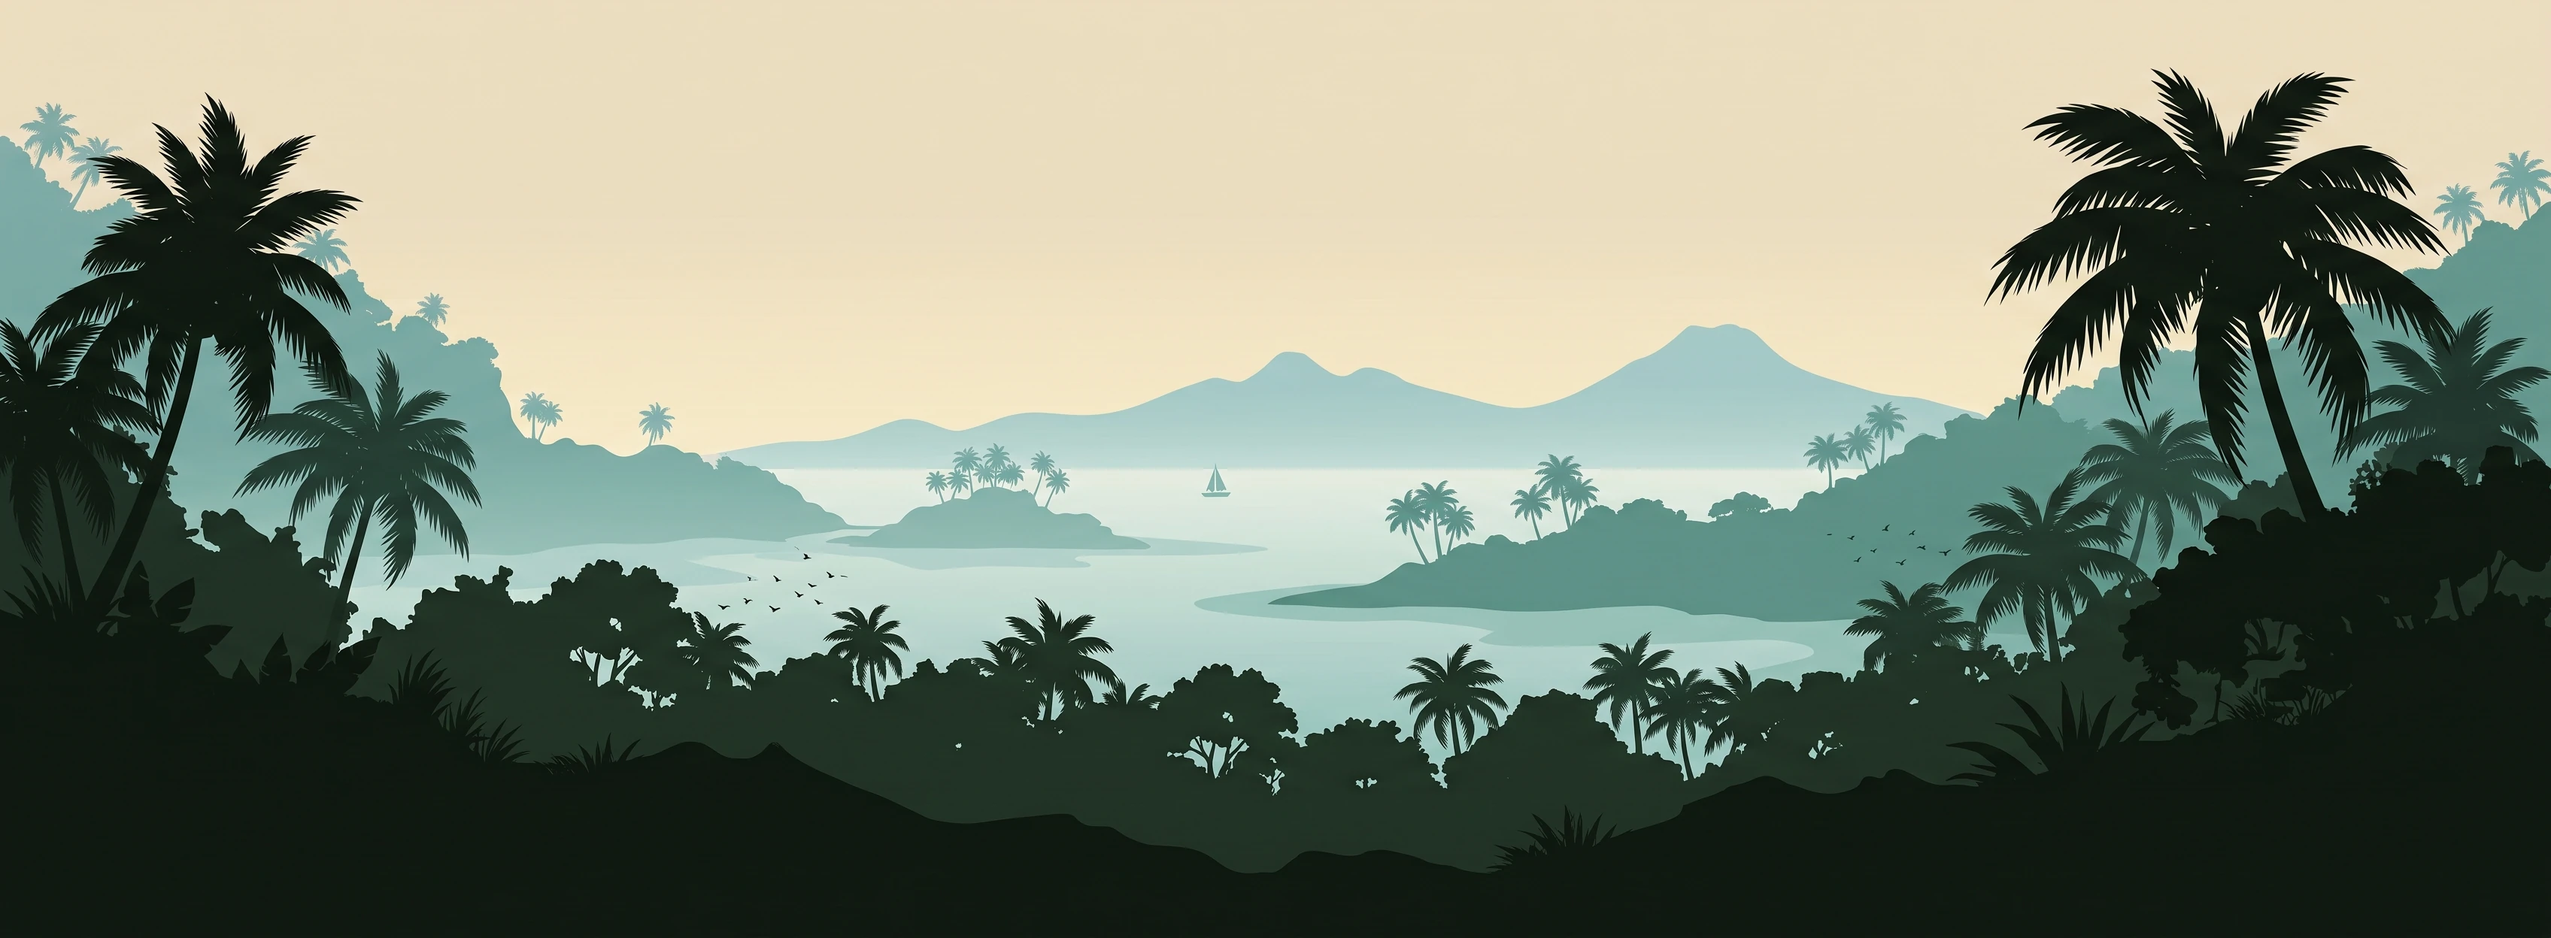
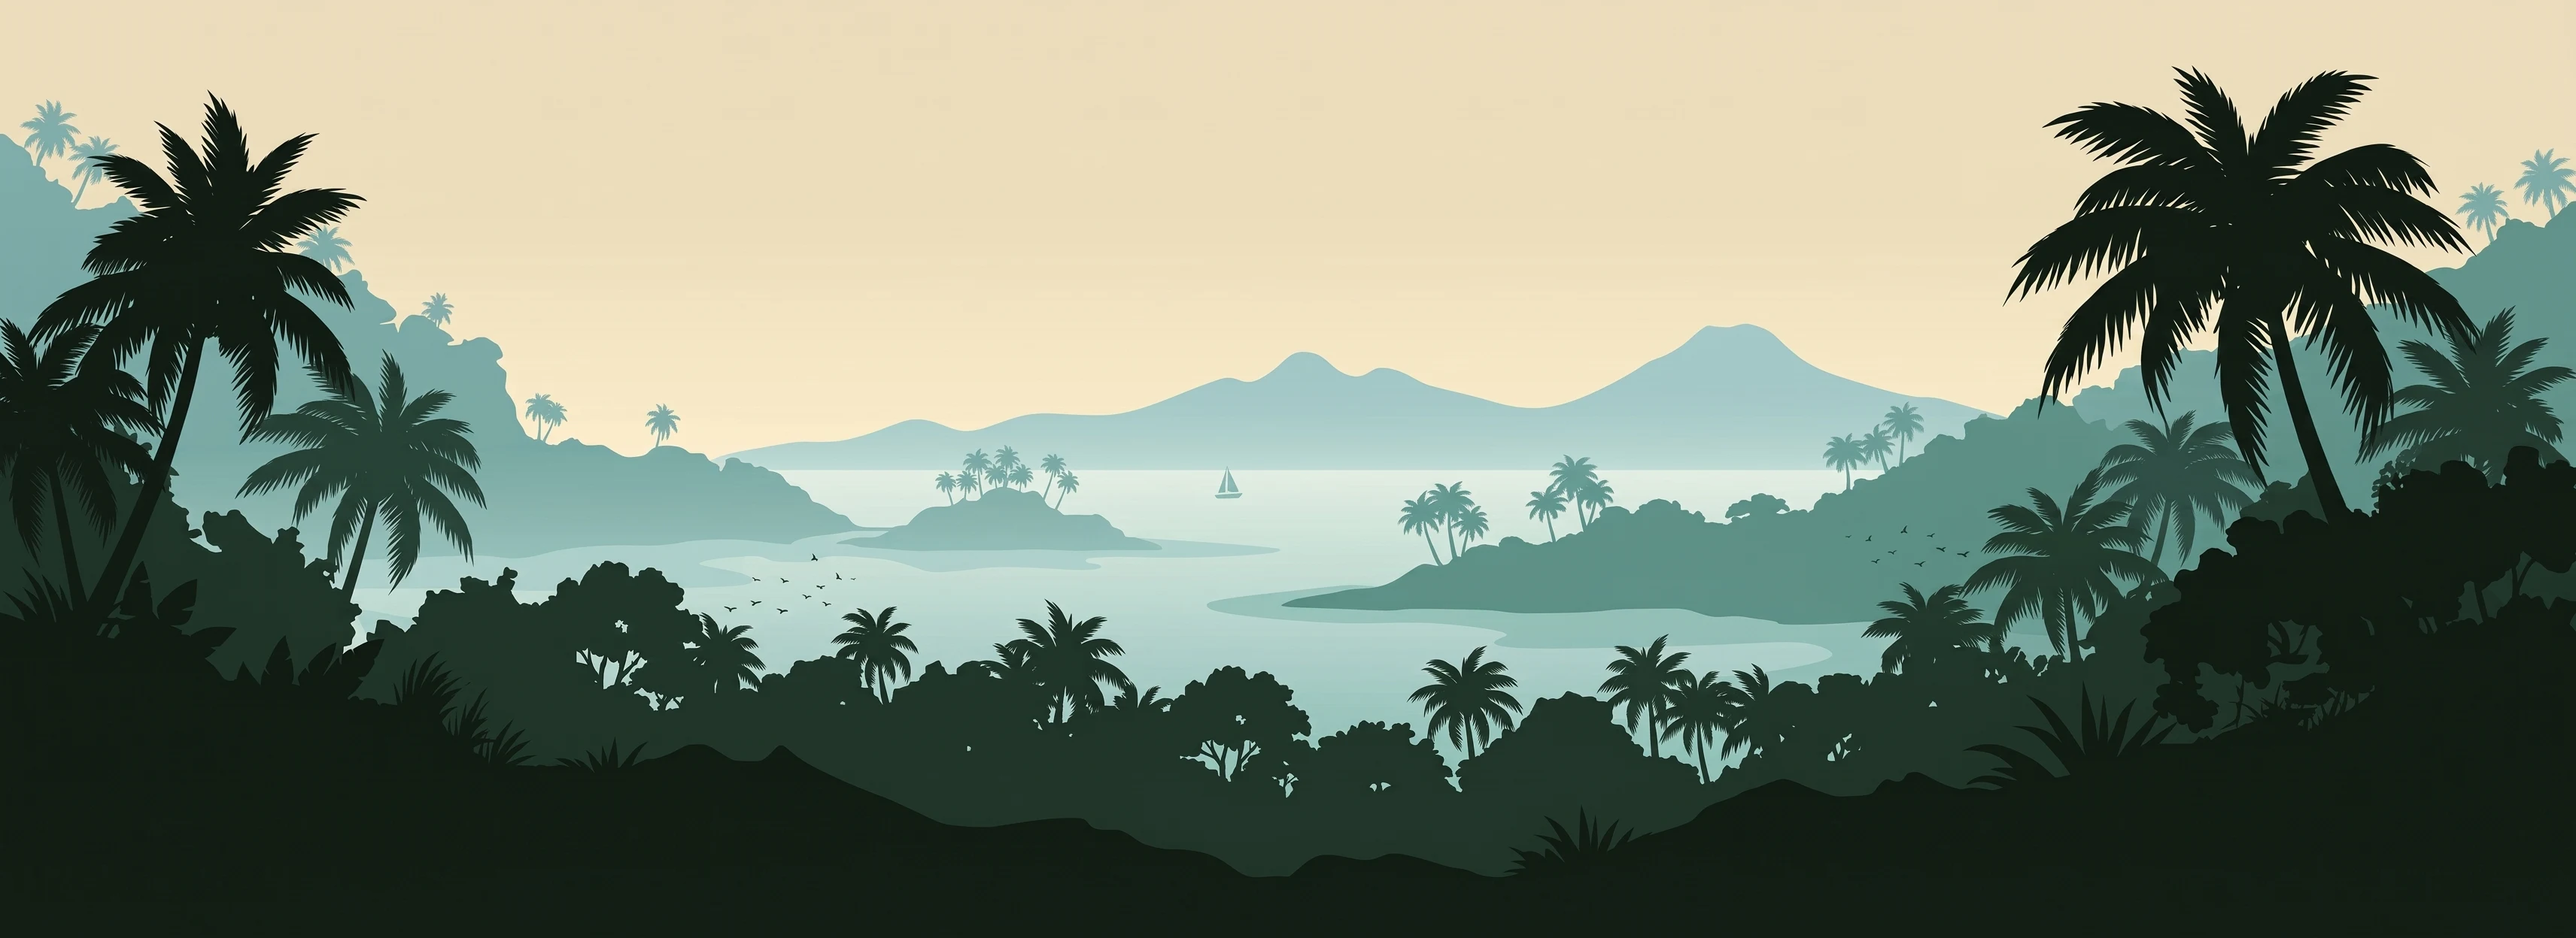
feat(ui): decrypt close bridge, sand seam, footer art refresh
Replace woodboard CTA with parchment overlay and text link; misty horizon
and sand gradient wedge (#ead7b2→#ecdcbb) into updated footer island WebP.
Remove unused hero-dirt and woodboard assets. ADR 008.

diff --git a/src/components/close/TryAgain.tsx b/src/components/close/TryAgain.tsx
@@ -1,37 +1,70 @@
-import { ArrowUp } from 'lucide-react';
+import { usePrefersReducedMotion } from '@/hooks/usePrefersReducedMotion';
 
 export default function TryAgain() {
+  const prefersReducedMotion = usePrefersReducedMotion();
+
   const scrollToWorkbench = () => {
     const el = document.getElementById('workbench');
     if (el) {
-      el.scrollIntoView({ behavior: 'smooth' });
+      el.scrollIntoView({
+        behavior: prefersReducedMotion ? 'auto' : 'smooth',
+        block: 'start',
+      });
     }
   };
 
   return (
-    <section className="relative bg-gradient-to-b from-[#EDF5F1] via-[#eaddbf] to-[#eaddbf] py-20 sm:py-28 px-4 sm:px-6 overflow-hidden text-center">
-      <div className="absolute top-1/2 left-1/2 -translate-x-1/2 -translate-y-1/2 w-96 h-96 sm:w-[500px] sm:h-[500px] bg-[#eaddbf]/90 rounded-full blur-3xl pointer-events-none" />
-
-      <h2 className="sr-only">Interactive Cipher Workbench — Unlock the Island Cipher</h2>
-
-      <div className="relative max-w-lg sm:max-w-xl md:max-w-2xl mx-auto w-full">
-        <img
-          src="/images/woodboard-workbench.webp"
-          alt="Interactive Cipher Workbench — Unlock the Island Cipher"
-          className="w-full h-auto drop-shadow-xl sm:drop-shadow-2xl select-none"
-          width={2126}
-          height={1652}
-        />
-
-        <button
-          type="button"
-          onClick={scrollToWorkbench}
-          className="absolute left-1/2 -translate-x-1/2 top-[82%] -translate-y-1/2 inline-flex items-center justify-center gap-2 px-8 sm:px-10 py-3 sm:py-4 rounded-xl bg-gradient-to-b from-[#E5B53A] via-[#D4A017] to-[#B3830E] text-white font-display font-black text-sm sm:text-base tracking-wider uppercase shadow-[0_4px_16px_rgba(40,25,15,0.6),inset_0_1px_0_rgba(255,255,255,0.5)] border-2 border-[#7A5408] hover:brightness-105 active:scale-95 transition-all min-h-[48px] whitespace-nowrap z-20 cursor-pointer"
-        >
-          <span>Try Cipher</span>
-          <ArrowUp className="w-4 h-4 sm:w-5 sm:h-5 text-white/90" />
-        </button>
+    <section id="decrypt-close-bridge" className="relative bg-[#EDF5F1] pt-8 sm:pt-10 pb-0 overflow-x-clip">
+      <div className="relative z-10 max-w-xl mx-auto w-full px-4 sm:px-6 pb-6 sm:pb-8">
+        <div className="relative w-full">
+          <img
+            src="/images/parchment-bridge-panel.webp"
+            alt=""
+            className="block w-full h-auto pointer-events-none select-none"
+            width={2048}
+            height={768}
+            decoding="async"
+            aria-hidden
+          />
+          <div className="absolute inset-0 flex flex-col items-center justify-center px-8 py-10 sm:px-12 sm:py-12 text-center">
+            <h2 className="font-hand text-3xl sm:text-4xl font-bold text-ink leading-tight">
+              Ready to try?
+            </h2>
+            <p className="mt-2 text-sm text-ink-muted font-medium max-w-xs sm:max-w-sm">
+              Encrypt or decrypt a message in the workbench.
+            </p>
+            <button
+              type="button"
+              onClick={scrollToWorkbench}
+              className="mt-5 text-base font-hand font-bold text-decrypt-deep underline decoration-decrypt-deep/40 underline-offset-[6px] hover:decoration-decrypt-deep focus-visible:outline focus-visible:outline-2 focus-visible:outline-offset-4 focus-visible:outline-decrypt-deep cursor-pointer bg-transparent border-0 p-0 min-h-11 inline-flex items-center"
+            >
+              Try it now
+            </button>
+          </div>
+        </div>
       </div>
+
+      <div
+        className="relative z-0 w-screen max-w-[100vw] left-1/2 -translate-x-1/2 leading-none bg-sand-seam-top"
+      >
+        <div
+          className="pointer-events-none absolute inset-x-0 top-0 z-[1] h-14 sm:h-20 bg-gradient-to-b from-[#EDF5F1] to-transparent"
+          aria-hidden
+        />
+        <img
+          src="/images/misty-pastel-horizon-layers.webp"
+          alt=""
+          className="relative z-0 block w-full min-w-full h-auto max-w-none object-cover object-bottom"
+          width={2103}
+          height={748}
+          decoding="async"
+        />
+      </div>
+
+      <div
+        className="sand-seam-bridge relative z-[1] h-20 sm:h-28 md:h-32 shrink-0"
+        aria-hidden
+      />
     </section>
   );
 }

diff --git a/src/components/layout/Footer.tsx b/src/components/layout/Footer.tsx
@@ -11,22 +11,16 @@ export default function Footer() {
         Island plate — cream only (no dark border/fade).
         9603382 border-b #0f1911 + bottom gradient re-drew the hairlines.
       */}
-      <div className="relative w-full overflow-hidden leading-none select-none bg-[#eaddbf] seam-overlap">
+      <div
+        className="relative w-full overflow-hidden leading-none select-none seam-overlap -mt-px"
+        style={{ backgroundColor: 'var(--color-sand-seam-bottom)' }}
+      >
         <img
           src="/images/footer-island.webp"
           alt=""
-          className="w-full h-auto block select-none pointer-events-none"
-          width={3392}
+          className="relative z-0 w-full h-auto block select-none pointer-events-none"
+          width={3424}
           height={1248}
-        />
-        {/* Soft cream at image TOP only — blend into TryAgain, no dark paint */}
-        <div
-          className="pointer-events-none absolute inset-x-0 top-0 h-4 z-[1]"
-          style={{
-            background:
-              'linear-gradient(to bottom, #eaddbf 0%, transparent 100%)',
-          }}
-          aria-hidden
         />
       </div>
 
@@ -46,7 +40,7 @@ export default function Footer() {
               </span>
             </div>
             <p className="text-sm text-white/75 leading-relaxed max-w-md font-medium">
-              Encrypt and decrypt messages in your browser with a reversible letter grid. No account. No server.
+              Encrypt and decrypt letters A–Z and digits 0–9 in your browser with a reversible grid. No account. No server.
             </p>
           </div>
 
@@ -63,6 +57,11 @@ export default function Footer() {
               <li>
                 <a href="#table" className="hover:text-white transition-colors text-white/65">
                   Letter grid
+                </a>
+              </li>
+              <li>
+                <a href="#number-grid" className="hover:text-white transition-colors text-white/65">
+                  Number grid
                 </a>
               </li>
               <li>

diff --git a/src/index.css b/src/index.css
@@ -12,6 +12,8 @@
   --color-dirt-deep: #3E2A22;
   --color-island-teal: #3A8F8C;
   --color-sand: #E8D5B5;
+  --color-sand-seam-top: #ead7b2;
+  --color-sand-seam-bottom: #ecdcbb;
   --color-parchment: #E6C89A;
 
   --font-sans: 'Manrope', system-ui, -apple-system, sans-serif;
@@ -51,7 +53,7 @@
       box-shadow: 0 1px 0 0 #edf5f1;
     }
     .seam-paint-cream {
-      box-shadow: 0 1px 0 0 #eaddbf;
+      box-shadow: 0 1px 0 0 var(--color-sand-seam-bottom);
     }
     .seam-paint-footer {
       box-shadow: 0 1px 0 0 #0f1911;
@@ -109,5 +111,17 @@
     z-index: 1;
     font-family: var(--font-parchment);
     color: #5c3310;
+  }
+
+  /* Horizon → footer sand wedge (decrypt close) */
+  .sand-seam-bridge {
+    width: 100vw;
+    max-width: 100vw;
+    margin-left: calc(50% - 50vw);
+    background: linear-gradient(
+      to bottom,
+      var(--color-sand-seam-top) 0%,
+      var(--color-sand-seam-bottom) 100%
+    );
   }
 }

diff --git a/src/components/about/AbcdTable.tsx b/src/components/about/AbcdTable.tsx
@@ -102,7 +102,7 @@ export default function AbcdTable() {
         )}
       </div>
 
-      <div className="relative max-w-xl mx-auto w-full mt-10">
+      <div id="number-grid" className="relative max-w-xl mx-auto w-full mt-10 scroll-mt-24">
         <div className="relative rounded-2xl bg-[#FFFDF7] border-2 border-[#D8C7A5] p-6 sm:p-8 shadow-xl rotate-[-0.2deg]">
           <div className="text-center mb-5">
             <h3 className="font-display font-extrabold text-xl sm:text-2xl text-ink tracking-tight">

diff --git a/src/App.tsx b/src/App.tsx
@@ -14,7 +14,7 @@ export default function App() {
         <AboutSection />
         <StepCards />
         {/* Cream plate overlaps decrypt 1px on mobile (subpixel seam fix) */}
-        <div className="bg-[#eaddbf] seam-overlap">
+        <div className="bg-sand-seam-bottom seam-overlap">
           <TryAgain />
           <Footer />
         </div>

diff --git a/decisions/008-decrypt-close-no-wood-cta.md b/decisions/008-decrypt-close-no-wood-cta.md
@@ -1,0 +1,20 @@
+# 008 — Decrypt close: quiet bridge (no wood CTA)
+
+**Status:** Accepted  
+**Date:** 2026-10-24
+
+## Context
+
+The post-decrypt **TryAgain** section used a photoreal wood sign and overlaid gold “Try Cipher” button. It felt like a second hero and broke the mint → footer rhythm.
+
+## Decision
+
+- Replace woodboard with **`#decrypt-close-bridge`**: mint-to-cream gradient, optional mist seam asset, parchment panel + text CTA **“Open workbench”** (outline / decrypt ink styling).
+- Remove references to `woodboard-workbench.webp` from the close section.
+- Footer copy mentions **letters and digits 0–9**; add **Number grid** link to `#number-grid` on About.
+
+## Consequences
+
+- Workbench discovery stays hero + nav; close section only scrolls to `#workbench`.
+- `prefers-reduced-motion` uses instant scroll, not smooth.
+- Wood WebP may remain on disk unused until cleanup.

diff --git a/README.md b/README.md
@@ -52,7 +52,7 @@
   <tr>
     <td valign="top">
       <strong>Teaching journey</strong><br/>
-      About section with ABCD table, encrypt/decrypt step cards, woodboard CTA, island footer — clear English copy; island theme is visual only.
+      About section with ABCD table, encrypt/decrypt step cards, quiet bridge to footer, island footer — clear English copy; island theme is visual only.
     </td>
     <td valign="top">
       <strong>ICM stage pipeline</strong><br/>
